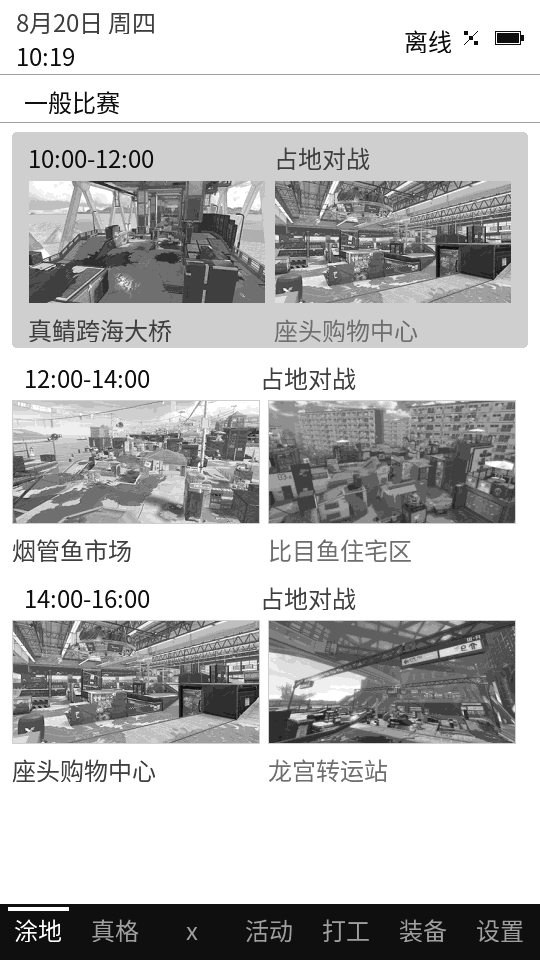
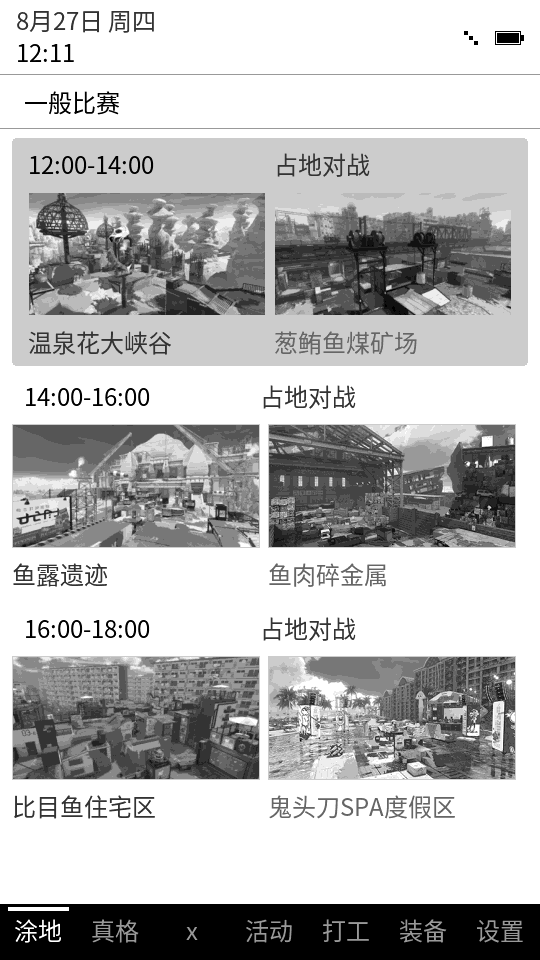
fw: SNAP V2 framed screenshot protocol + verified About page on device
- shot now snapshots the canvas to PSRAM first (immune to later repaints),
  streams packed 4bpp with a #SNAP V2 header + CRC32 (half the old PGM
  transfer size, end-to-end verified)
- dump_screen.py upgraded to the frame protocol: retries commands until the
  device acks (idle light-sleep silently drops mid-slice UART bytes —
  esp_sleep_enable_uart_wakeup proved ineffective, reverted with an honest
  comment), verifies CRC32 and re-requests whole frames on mismatch
- About page: version v1.0.0 moves into the title row; the previous spot
  overlapped the first body line (caught by on-device screenshot)
- refresh tools/preview/live-p0.png with today's live schedule

diff --git a/tools/preview/dump_screen.py b/tools/preview/dump_screen.py
@@ -1,21 +1,38 @@
 #!/usr/bin/env python3
-"""Dump M5Paper page canvas over serial (`shot`) to a PNG.
+"""Capture the M5Paper page canvas over serial and save it as a PNG.
 
-Opens COM without holding EN/DTR reset. Optional --reset pulses RTS.
+Protocol (firmware `shot` command, SNAP V2):
+    #SNAP V2 540 960 4BPP <len> <crc32hex>\n
+    <len bytes of packed 4bpp, high nibble first, row stride (w+1)/2>
+    \n#SNAP END <crc32hex>\n
+
+The device idle-sleeps between UI activity and silently drops serial input
+arriving mid-slice (~50% at a 180 ms retry cadence), so this tool repeats
+the command until the firmware acknowledges it.
+
+Usage:
+    python tools/preview/dump_screen.py --port COM9 --cmd "page 0" --out shot.png
+    python tools/preview/dump_screen.py --port COM9 --reset   # boot + capture
+
+Requires Pillow for PNG output.
 """
 from __future__ import annotations
 
 import argparse
+import re
 import sys
 import time
+import zlib
 from pathlib import Path
 
 import serial
 from PIL import Image
 
 W, H = 540, 960
-PAYLOAD = W * H
-MAGIC = b"P5\n540 960\n255\n"
+STRIDE = (W + 1) // 2
+PAYLOAD = STRIDE * H
+HEADER_RE = re.compile(rb"#SNAP V2 (\d+) (\d+) 4BPP (\d+) ([0-9A-Fa-f]{8})\r?\n")
+END_TAIL = b"#SNAP END"
 
 
 def open_port(port: str, reset: bool) -> serial.Serial:
@@ -23,7 +40,7 @@ def open_port(port: str, reset: bool) -> serial.Serial:
     ser.port = port
     ser.baudrate = 115200
     ser.timeout = 0.3
-    ser.write_timeout = 2
+    ser.write_timeout = 5
     ser.dsrdtr = False
     ser.rtscts = False
     ser.dtr = False
@@ -53,63 +70,126 @@ def send_line(ser: serial.Serial, line: str) -> None:
     ser.flush()
 
 
-def grab_status(ser: serial.Serial, seconds: float = 3.0) -> str:
-    send_line(ser, "status")
+def grab_status(ser: serial.Serial, seconds: float = 6.0) -> str:
+    """Repeat status until acked; idle sleep eats some of the first tries."""
     deadline = time.time() + seconds
-    buf = b""
-    while time.time() < deadline:
-        buf += ser.read(4096)
-    return buf.decode("utf-8", "replace")
-
-
-def grab_shot(ser: serial.Serial, out_png: Path, timeout: float = 90.0) -> None:
-    # discard pending
-    ser.reset_input_buffer()
-    send_line(ser, "shot")
-    deadline = time.time() + timeout
     buf = bytearray()
+    last = 0.0
     while time.time() < deadline:
+        n = ser.read(4096)
+        if n:
+            buf.extend(n)
+            if re.search(rb"v\d+\.\d+\.\d+ page=", bytes(buf)):
+                return bytes(buf).decode("utf-8", "replace")
+        now = time.time()
+        if now - last >= 0.18:
+            send_line(ser, "status")
+            last = now
+    raise RuntimeError("no status reply")
+
+
+def save(out_png: Path, raw: bytes, crc: int) -> None:
+    """Expand packed 4bpp (white=15) to gray8 and write the PNG."""
+    if ".." in out_png.parts:
+        raise SystemExit(f"--out must not contain '..': {out_png}")
+    scale = [v * 17 for v in range(16)]
+    px = bytearray(W * H)
+    pos = 0
+    for y in range(H):
+        base = y * STRIDE
+        for x in range(W):
+            b = raw[base + (x >> 1)]
+            nib = (b >> 4) if (x & 1) == 0 else (b & 0x0F)
+            px[pos] = scale[nib]
+            pos += 1
+    out_png.parent.mkdir(parents=True, exist_ok=True)
+    out_png.write_bytes(b"")  # reserve validated target before PIL write
+    Image.frombytes("L", (W, H), bytes(px)).save(out_png)
+    print(f"saved {out_png} ({PAYLOAD} B frame, crc {crc:08X})", flush=True)
+
+
+def grab_shot(ser: serial.Serial, out_png: Path, timeout: float = 120.0) -> None:
+    """Send `shot` repeatedly until #SNAP V2 shows up, then stream the frame.
+
+    Once a header has been seen we stop resending so we never queue a second
+    dump behind the first one; a corrupt frame is retried whole.
+    """
+    ser.reset_input_buffer()
+    hdr, hdr_at = None, -1
+    buf = bytearray()
+    started = time.time()
+    last_send = 0.0
+
+    while time.time() < started + timeout:
         chunk = ser.read(16384)
         if chunk:
-            buf += chunk
-            idx = buf.find(MAGIC)
-            if idx >= 0 and len(buf) >= idx + len(MAGIC) + PAYLOAD:
-                raw = bytes(buf[idx + len(MAGIC) : idx + len(MAGIC) + PAYLOAD])
-                img = Image.frombytes("L", (W, H), raw)
-                img.save(out_png)
-                print(f"saved {out_png} ({len(raw)} px)", flush=True)
-                return
-        elif buf.find(MAGIC) < 0 and time.time() > deadline - timeout + 8:
-            # no header yet after 8s — keep waiting until timeout
-            pass
-    raise RuntimeError(
-        f"shot timed out, got {len(buf)} bytes, magic={'yes' if MAGIC in buf else 'no'}"
-    )
+            buf.extend(chunk)
+
+        if hdr is None:
+            m = HEADER_RE.search(bytes(buf))
+            if m:
+                w, h, length = int(m.group(1)), int(m.group(2)), int(m.group(3))
+                if (w, h) != (W, H):
+                    raise RuntimeError(f"unexpected geometry {w}x{h}")
+                if length != PAYLOAD:
+                    raise RuntimeError(f"unexpected payload {length}")
+                crc_expected = int(m.group(4), 16)
+                hdr, hdr_at = m.group(0), m.end()
+
+        if hdr is not None and len(buf) >= hdr_at + PAYLOAD:
+            raw = bytes(buf[hdr_at : hdr_at + PAYLOAD])
+            crc_got = zlib.crc32(raw) & 0xFFFFFFFF
+            if crc_got != crc_expected:
+                print(f"[snap] CRC mismatch got={crc_got:08X} want={crc_expected:08X},"
+                      f" retrying whole transfer", flush=True)
+                del buf[:]
+                hdr, hdr_at = None, -1
+                continue
+            deadline = time.time() + 3
+            while END_TAIL not in bytes(buf[hdr_at + PAYLOAD:]) and time.time() < deadline:
+                more = ser.read(4096)
+                if more:
+                    buf.extend(more)
+            if END_TAIL not in bytes(buf[hdr_at + PAYLOAD:]):
+                print("[snap] warning: end marker never seen; CRC ok anyway",
+                      flush=True)
+            save(out_png, raw, crc_got)
+            return
+
+        # header not here yet — keep the request alive; during transfer,
+        # resending would queue a duplicate dump, so header-phase only.
+        if hdr is None and time.time() - last_send >= 0.18:
+            send_line(ser, "shot")
+            last_send = time.time()
+
+    raise RuntimeError(f"snap timed out after {timeout}s, rx={len(buf)}B")
 
 
 def main() -> int:
-    p = argparse.ArgumentParser()
+    p = argparse.ArgumentParser(description=__doc__)
     p.add_argument("--port", default="COM9")
-    p.add_argument("--reset", action="store_true")
+    p.add_argument("--reset", action="store_true", help="pulse EN before capture")
     p.add_argument("--out", default=str(Path(__file__).with_name("live.png")))
-    p.add_argument("--cmd", default="", help="extra command before shot (e.g. page 0)")
+    p.add_argument("--cmd", default="", help="device command before shot (e.g. about)")
     args = p.parse_args()
+    out_png = Path(args.out)
+    if ".." in out_png.parts:
+        raise SystemExit(f"--out must not contain '..': {args.out}")
 
     ser = open_port(args.port, args.reset)
     try:
         if args.reset:
-            print("reset, waiting 8s for boot...", flush=True)
-            boot = read_until(ser, time.time() + 8)
-            sys.stdout.write(boot.decode("utf-8", "replace"))
+            print("reset, waiting 10s for boot...", flush=True)
+            sys.stdout.write(read_until(ser, time.time() + 10).decode("utf-8", "replace"))
             sys.stdout.flush()
         print("--- status ---", flush=True)
         print(grab_status(ser), flush=True)
         if args.cmd:
             send_line(ser, args.cmd)
-            time.sleep(2)
-            print(read_until(ser, time.time() + 2).decode("utf-8", "replace"), flush=True)
+            time.sleep(7)          # full-quality repaint takes 1-2 s (+ retries)
+            print(read_until(ser, time.time() + 3).decode("utf-8", "replace"), flush=True)
         print("--- shot ---", flush=True)
-        grab_shot(ser, Path(args.out))
+        grab_shot(ser, out_png)
     finally:
         ser.close()
     return 0

diff --git a/src/render.cpp b/src/render.cpp
@@ -401,11 +401,11 @@ static void drawGearPage(const Model& m) {
 
 static void drawAboutPage(const Model& m) {
   drawPageTitle(ui::AboutTitle);
-  font24.draw(&page, 24, kContentY, ui::AppTitle, C_BLACK, C_WHITE);
-  // FW_VERSION is x.y.z Latin/digits — always present in the URL glyphs
+  // FW_VERSION is x.y.z Latin/digits — always present in the URL glyphs.
+  // Sits in the title row so it can't collide with the body text below.
   const char* ver = "v" FW_VERSION;
-  font24.draw(&page, kW - 24 - font24.textWidth(ver), kContentY + kInk24 + 4,
-              ver, C_GRAY, C_WHITE);
+  font24.draw(&page, kW - 24 - font24.textWidth(ver), kTitleY, ver, C_GRAY, C_WHITE);
+  font24.draw(&page, 24, kContentY, ui::AppTitle, C_BLACK, C_WHITE);
 
   static const char* lines[] = {
       "把 splatoon3.ink 的对战、鲑鱼跑、活动与祭典",
@@ -718,19 +718,32 @@ int settingsHit(int x, int y, bool about) {
 }
 
 bool dumpCanvas() {
-  const uint8_t* buf = (const uint8_t*)page.getBuffer();
+  // Snapshot first so later paints can't corrupt the transfer, then stream
+  // the packed 4bpp buffer framed with a length + CRC32 (host verifies).
+  static uint8_t* snap = nullptr;
+  if (!snap) snap = (uint8_t*)ps_malloc(kW * kH / 2);
+  const uint8_t* buf = snap ? snap : (const uint8_t*)page.getBuffer();
   if (!buf) return false;
-  // 4bpp packed (high nibble first), row-major → 8-bit gray PGM P5
-  Serial.print("P5\n540 960\n255\n");
-  uint8_t out[540];
-  for (int y = 0; y < 960; ++y) {
-    const uint8_t* row = buf + (y * 540 * 4) / 8;
-    for (int x = 0; x < 540; ++x) {
-      uint8_t b = row[x >> 1];
-      out[x] = (((x & 1) ? (b & 0x0F) : (b >> 4)) << 4) | 0x0F;
-    }
-    Serial.write(out, sizeof(out));
+  if (snap) memcpy(snap, page.getBuffer(), kW * kH / 2);
+  const size_t len = kW * kH / 2;
+  uint32_t crc = 0xFFFFFFFFu;
+  for (size_t i = 0; i < len; ++i) {
+    crc ^= snap[i];
+    for (int k = 0; k < 8; ++k) crc = (crc >> 1) ^ ((-(int32_t)(crc & 1)) & 0xEDB88320u);
   }
+  crc = ~crc;
+
+  Serial.printf("#SNAP V2 %d %d 4BPP %u %08X\n", kW, kH, (unsigned)len, crc);
+  Serial.flush();
+  const uint8_t* p = buf;
+  size_t left = len;
+  while (left) {
+    size_t n = left < 512 ? left : 512;
+    Serial.write(p, n);
+    p += n;
+    left -= n;
+  }
+  Serial.printf("\n#SNAP END %08X\n", crc);
   return true;
 }
 

diff --git a/src/power.cpp b/src/power.cpp
@@ -39,6 +39,9 @@ void powerIdleSleep(uint32_t maxMs) {
   // ESP32 EXT1 has no ANY_LOW. Touch INT (GPIO 36) is owned by GT911 —
   // stealing it for EXT0 immediately re-wakes. Timer slices + UART RX
   // are enough: wheel/touch are sampled after each slice.
+  // Known limitation: bytes arriving mid-slice are silently dropped
+  // (APB clock gated; esp_sleep_enable_uart_wakeup proved ineffective on
+  // this board), so serial hosts must retry commands until acknowledged.
   if (maxMs < 80) maxMs = 80;
   if (maxMs > 250) maxMs = 250;
   esp_sleep_enable_timer_wakeup((uint64_t)maxMs * 1000ULL);

diff --git a/README.md b/README.md
@@ -63,7 +63,16 @@ pio device monitor         # 串口 115200
 wifi 你的SSID 你的密码
 ```
 
-其他串口命令：`refetch`（强制刷新）、`page N`、`sleep`（息屏）、`status`（含固件版本）。
+其他串口命令：`refetch`（强制刷新）、`page N`、`sleep`（息屏）、`status`（含固件版本）、
+`shot`（截屏）。
+
+截屏协议（SNAP V2）：固件把画布快照到 PSRAM 后回传 `#SNAP V2 540 960 4BPP <len> <crc32>`
+帧 + 打包 4bpp 原始数据 + CRC32 校验。上位机一条命令出图（命令在空闲轻睡期可能被丢，
+工具会自动重试直到应答，帧不完整自动整帧重传）：
+
+```bash
+python tools/preview/dump_screen.py --port COM9 --cmd "page 0" --out shot.png
+```
 
 ## 版本与发版
 
